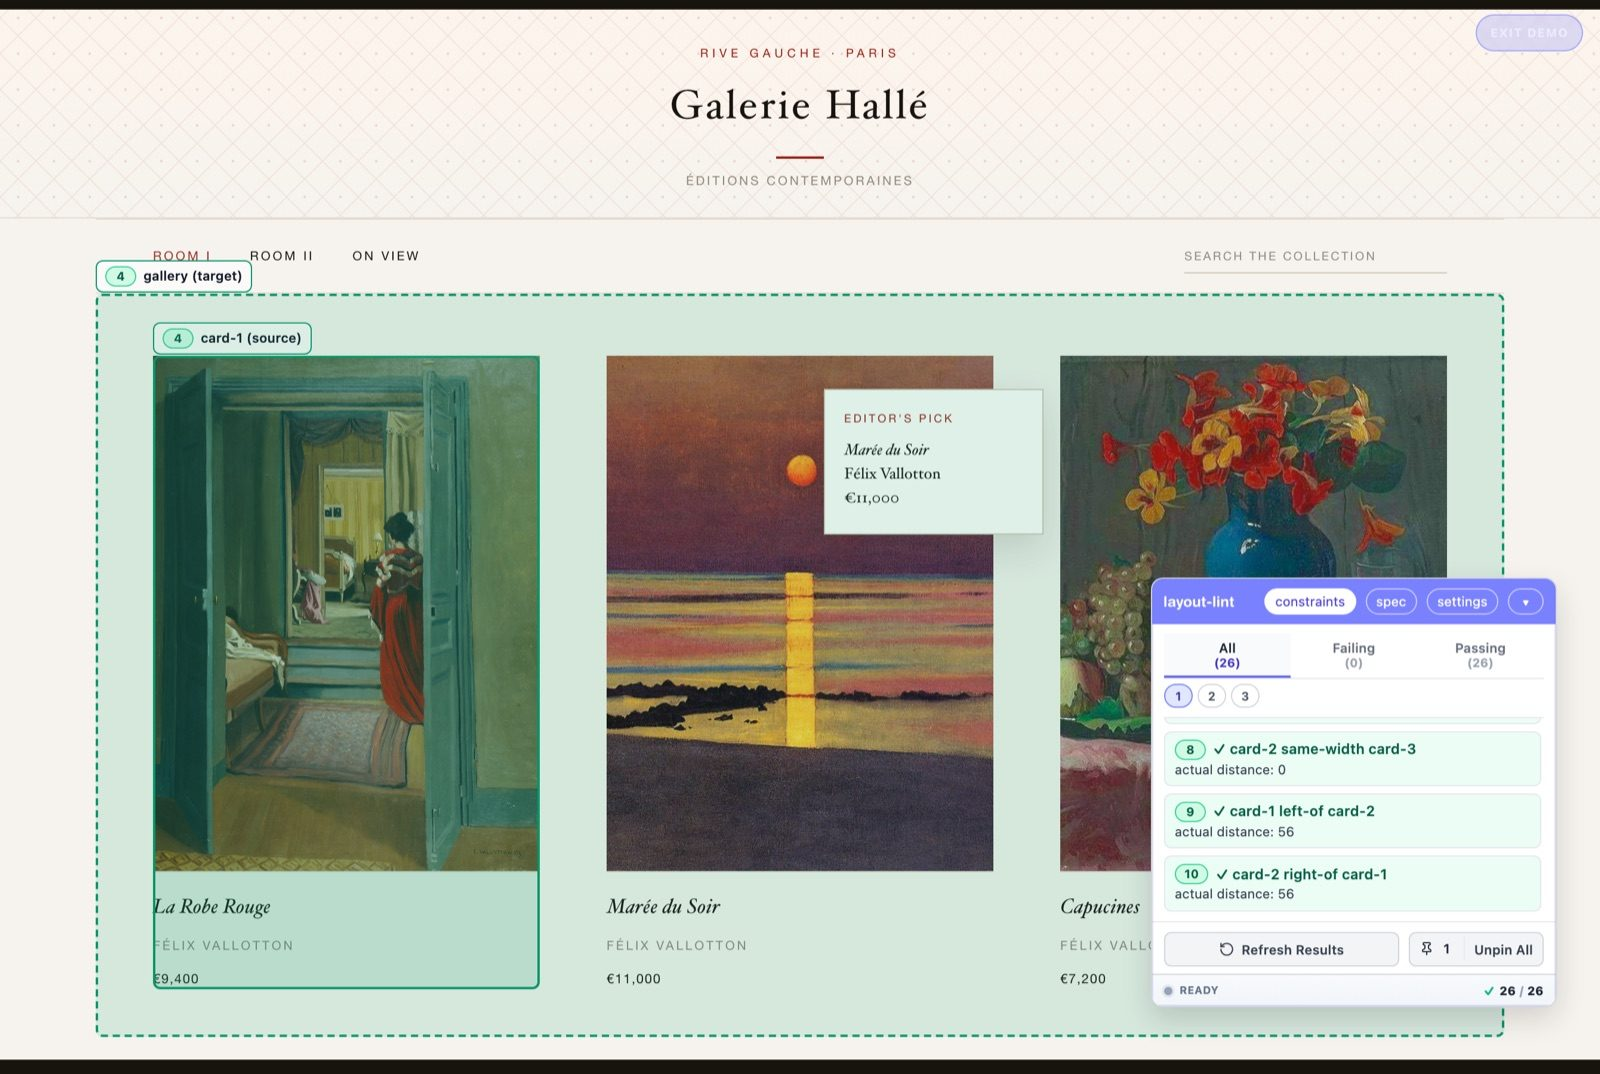
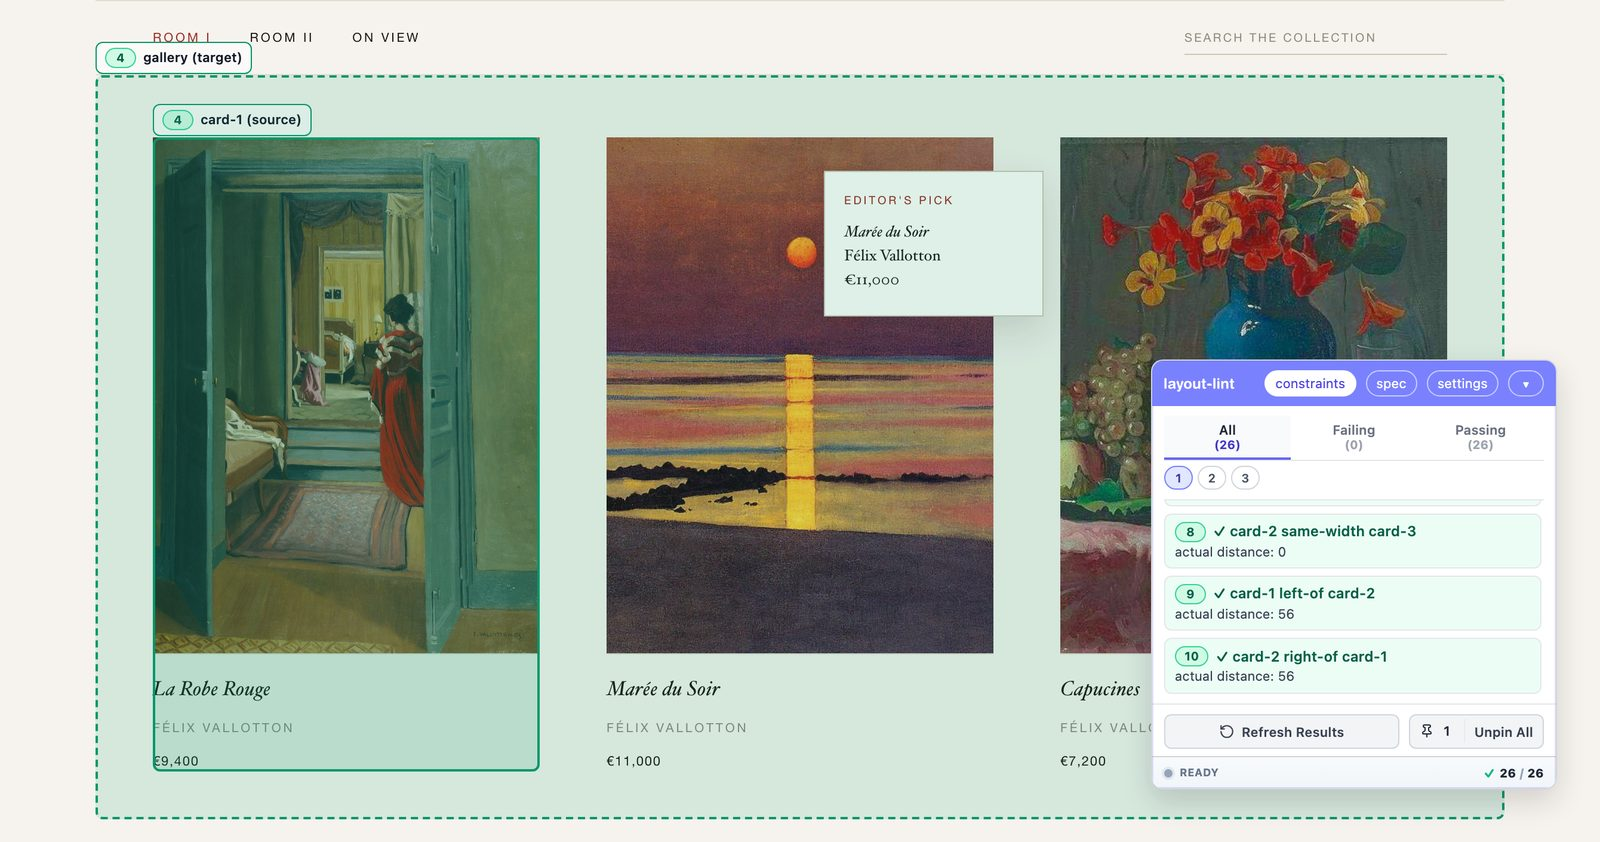
crop readme screenshot, tighten wording

diff --git a/README.md b/README.md
@@ -18,7 +18,7 @@ count visible card-* is >= 3;
 
 ![The widget open on a demo page, with a pinned rule outlining its two elements](demo/images/widget.jpg)
 
-Selecting a rule draws its target and source on the page. The live site carries the demos, a parse-tree explorer, and the grammar reference with a syntax diagram per rule.
+Selecting a rule draws its target and source on the page. Interactive demos, a parse-tree explorer, and the grammar reference with a syntax diagram per rule are on the [live site](https://cnobis.github.io/layout-lint/), or run them locally with `npm run serve`.
 
 ## Install
 
@@ -72,15 +72,7 @@ if (diagnostics.length) console.error(lint.formatDiagnostics(diagnostics));
 if (results.some((r) => !r.pass)) process.exit(1);
 ```
 
-The grammar and the tree-sitter runtime are inlined, so no `wasmUrl` or `locateFile` is needed. For a synthetic DOM, pass `dom: window.document`. jsdom runs no layout engine, so spatial rules need a real browser through Playwright or Cypress.
-
-## Demos
-
-Four pages under [demo/](demo/): a guided tutorial, then a gallery, a bar, and a studio.
-
-```bash
-npm run serve   # opens http://127.0.0.1:8080/demo/
-```
+The grammar and the Tree-sitter runtime are inlined, so no `wasmUrl` or `locateFile` is needed. For a synthetic DOM, pass `dom: window.document`. jsdom runs no layout engine, so spatial rules need a real browser.
 
 ## External WASM
 
